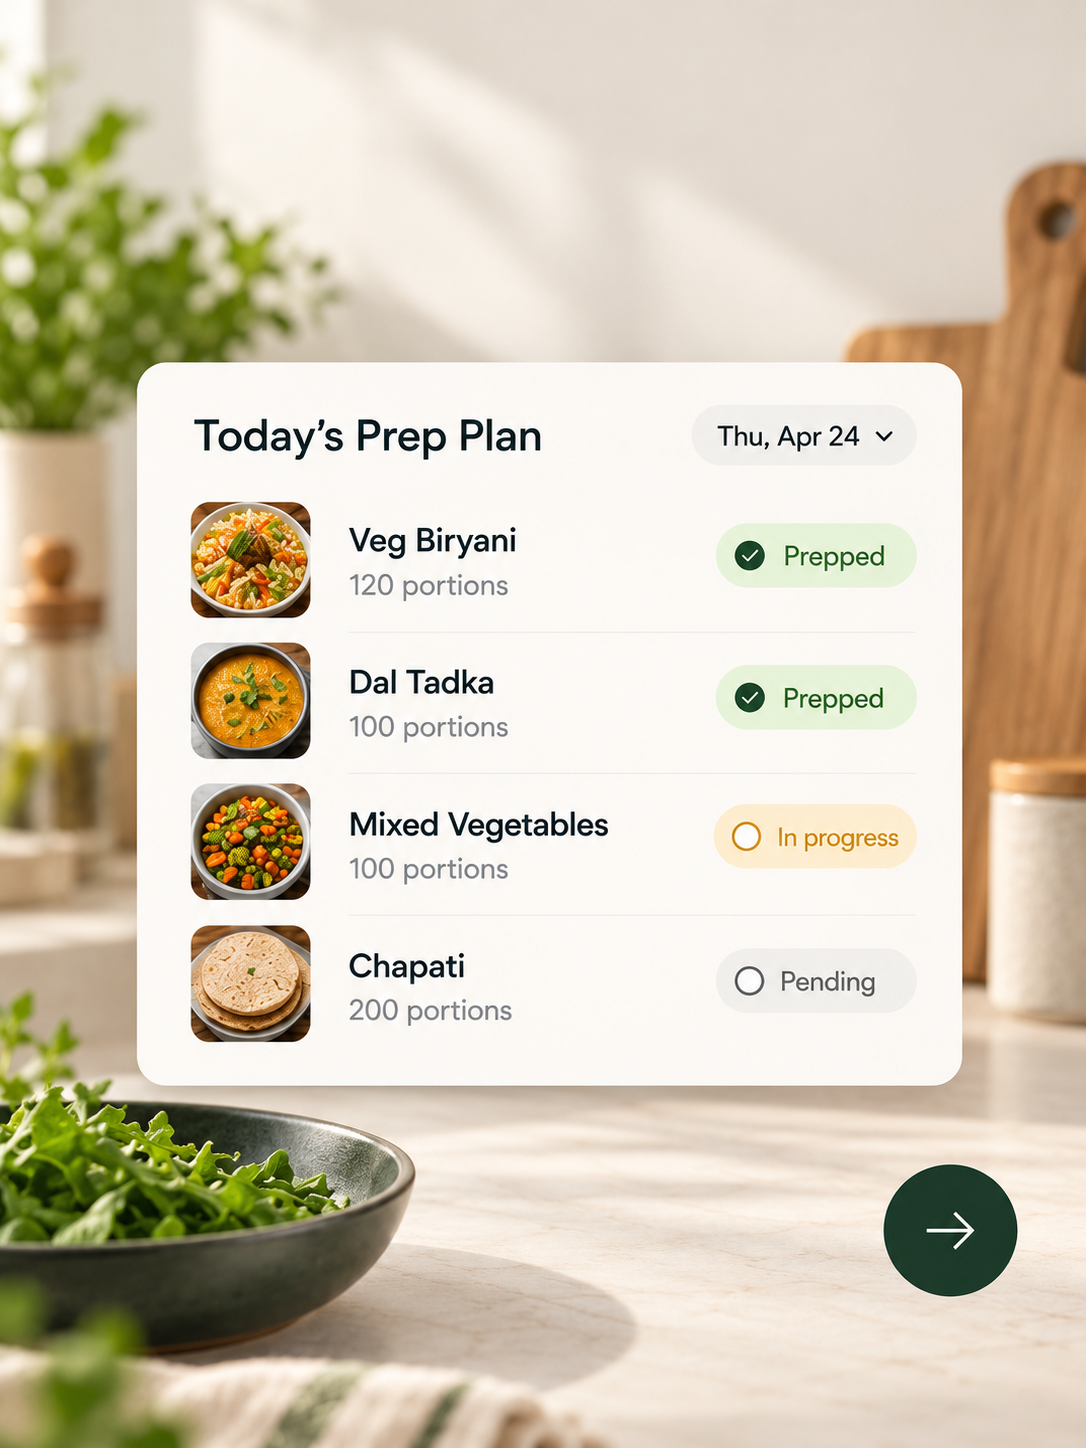
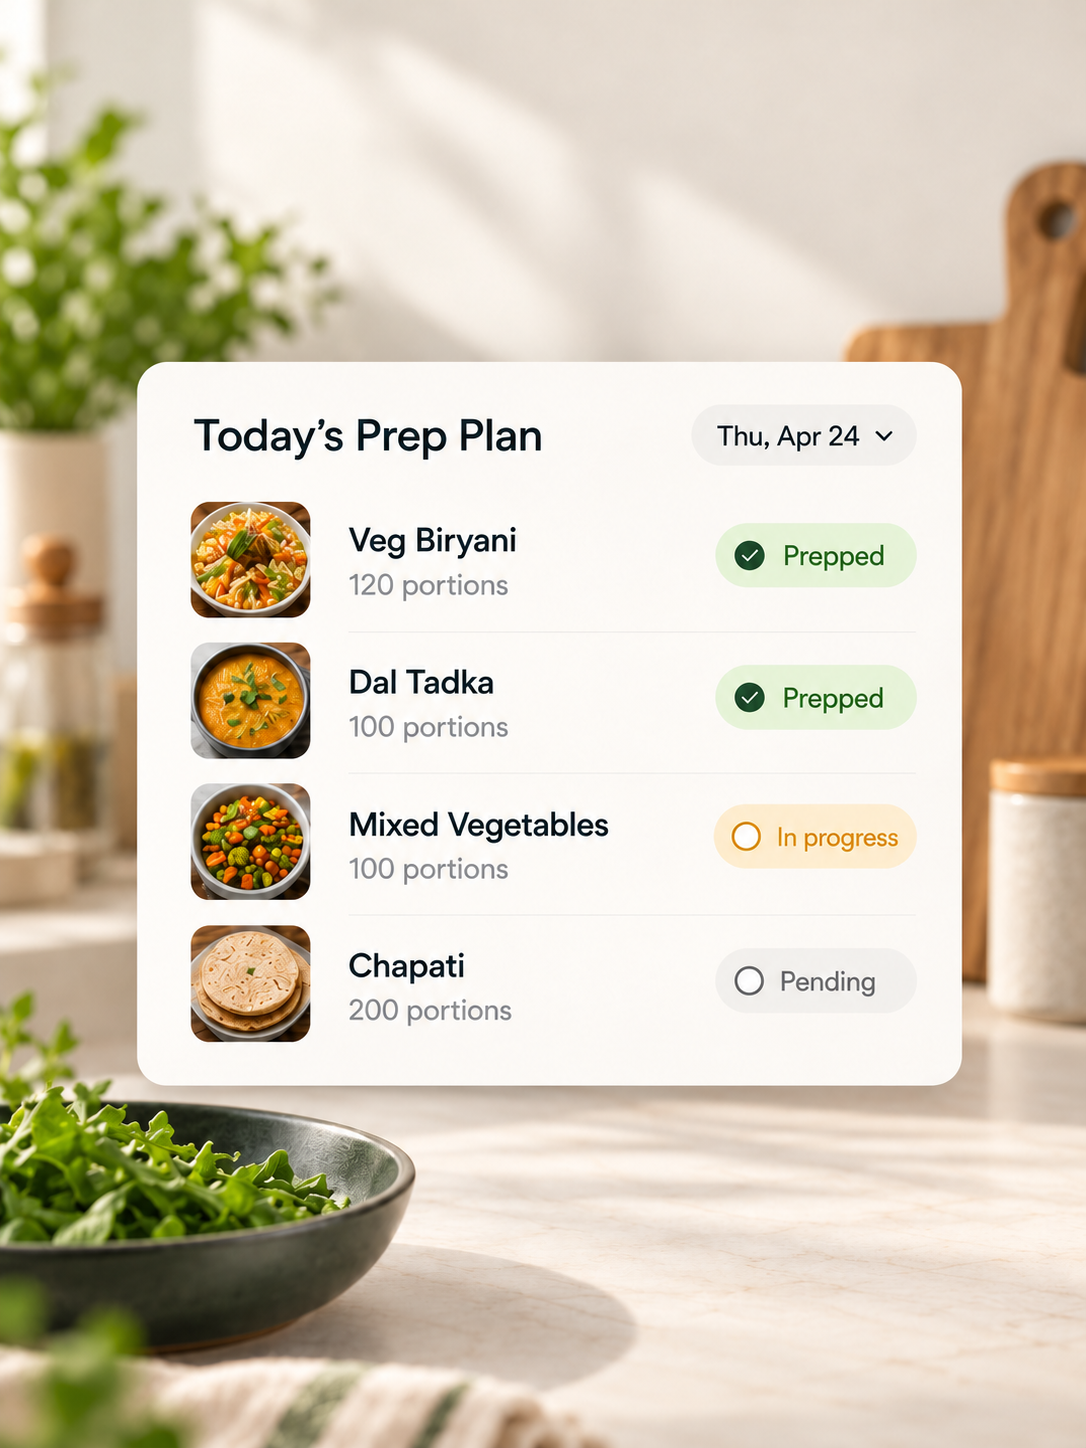
119: replace image arrows with real buttons

diff --git a/Frontend/apps/web/src/components/landing/HowItWorks.module.css b/Frontend/apps/web/src/components/landing/HowItWorks.module.css
@@ -14,8 +14,7 @@
 .card h3{font-size:clamp(21px,2.1vw,29px);font-weight:750;letter-spacing:-.035em;margin:0 0 10px;line-height:1.15}
 .copy>p{font-size:clamp(12px,1.05vw,14px);line-height:1.55;max-width:340px}
 .cta{position:absolute;z-index:2;bottom:6%;right:5.5%;width:12%;aspect-ratio:1;min-width:40px;display:grid;place-items:center;border-radius:50%;background:#d5fb53;color:#003f2f;transition:transform .2s}
-.embeddedCta{background:transparent;bottom:10.3%;right:6.3%;width:12.5%}
-.card:last-child .embeddedCta{bottom:6.3%;right:5.5%;width:12%}
+.light .cta{background:#003f2f;color:#fff}
 .cta:hover{transform:scale(1.07);box-shadow:0 0 0 3px #d5fb5350}
 .cta:focus-visible{outline:3px solid #84a800;outline-offset:4px}
 @media(max-width:1050px){.grid{gap:16px}.heading{gap:30px}.copy{padding:18px 17px 0}.card h3{font-size:22px;margin-bottom:8px}.copy>p{font-size:12px;line-height:1.5}}

diff --git a/Frontend/apps/web/src/components/landing/HowItWorks.tsx b/Frontend/apps/web/src/components/landing/HowItWorks.tsx
@@ -22,8 +22,8 @@ export function HowItWorks() {
             <article key={title} className={`${s.card} ${i === 1 ? s.light : ""}`} aria-label={`${step}: ${title}`}>
               <Image src={`/images/${image}`} alt="" fill sizes="(max-width: 600px) 100vw, (max-width: 850px) 50vw, 33vw" className={s.background} />
               <div className={s.copy}><h3>{title}</h3><p>{description}</p></div>
-              <Link className={`${s.cta} ${i > 0 ? s.embeddedCta : ""}`} href={href} aria-label={action}>
-                {i === 0 && <ArrowRight size={23} aria-hidden="true" />}
+              <Link className={s.cta} href={href} aria-label={action}>
+                <ArrowRight size={23} aria-hidden="true" />
               </Link>
             </article>
           ))}
